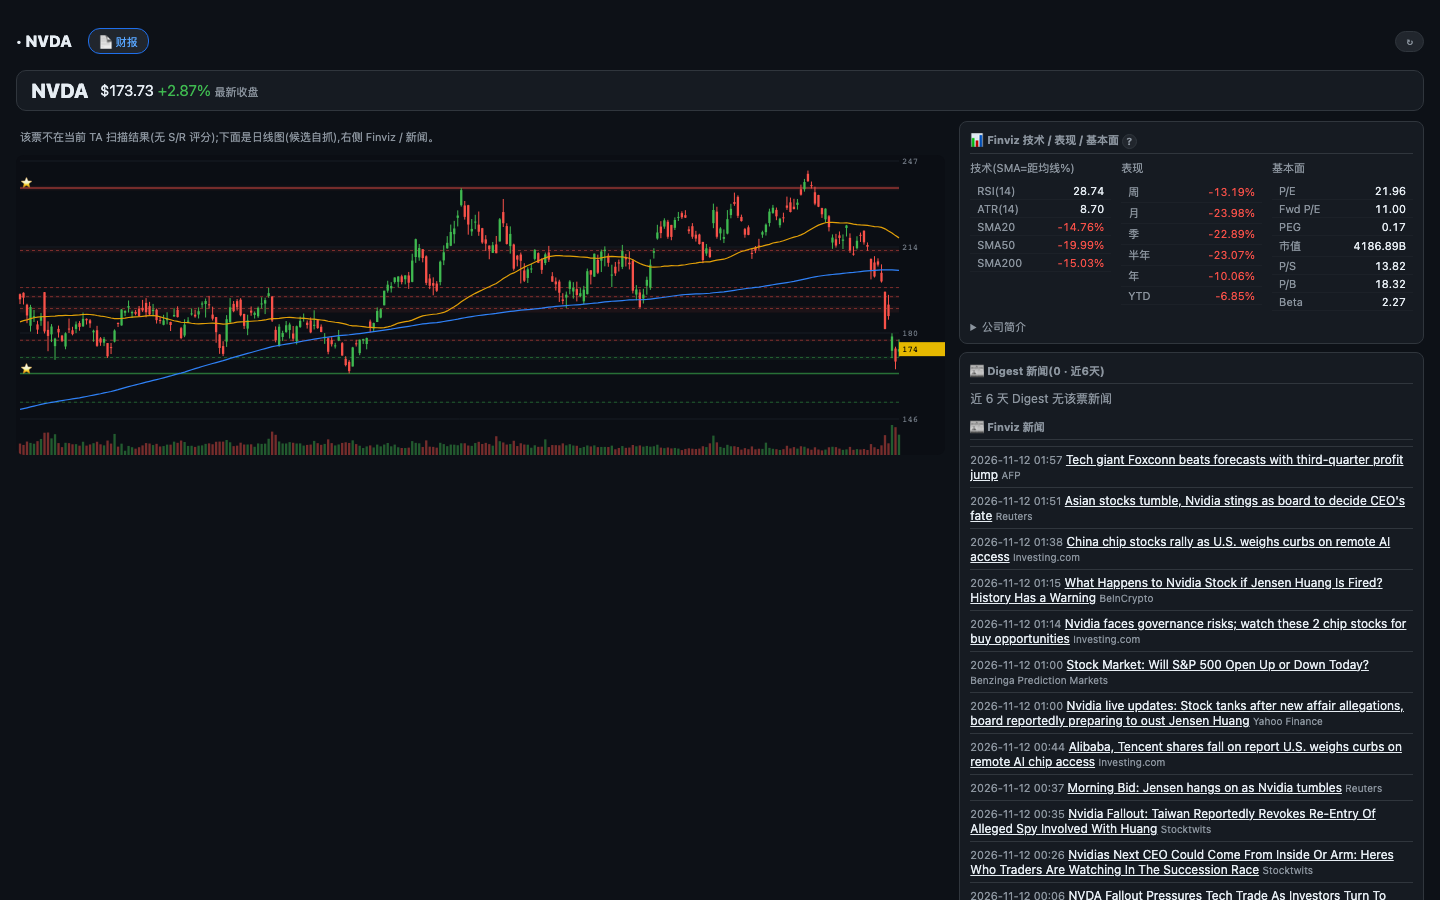
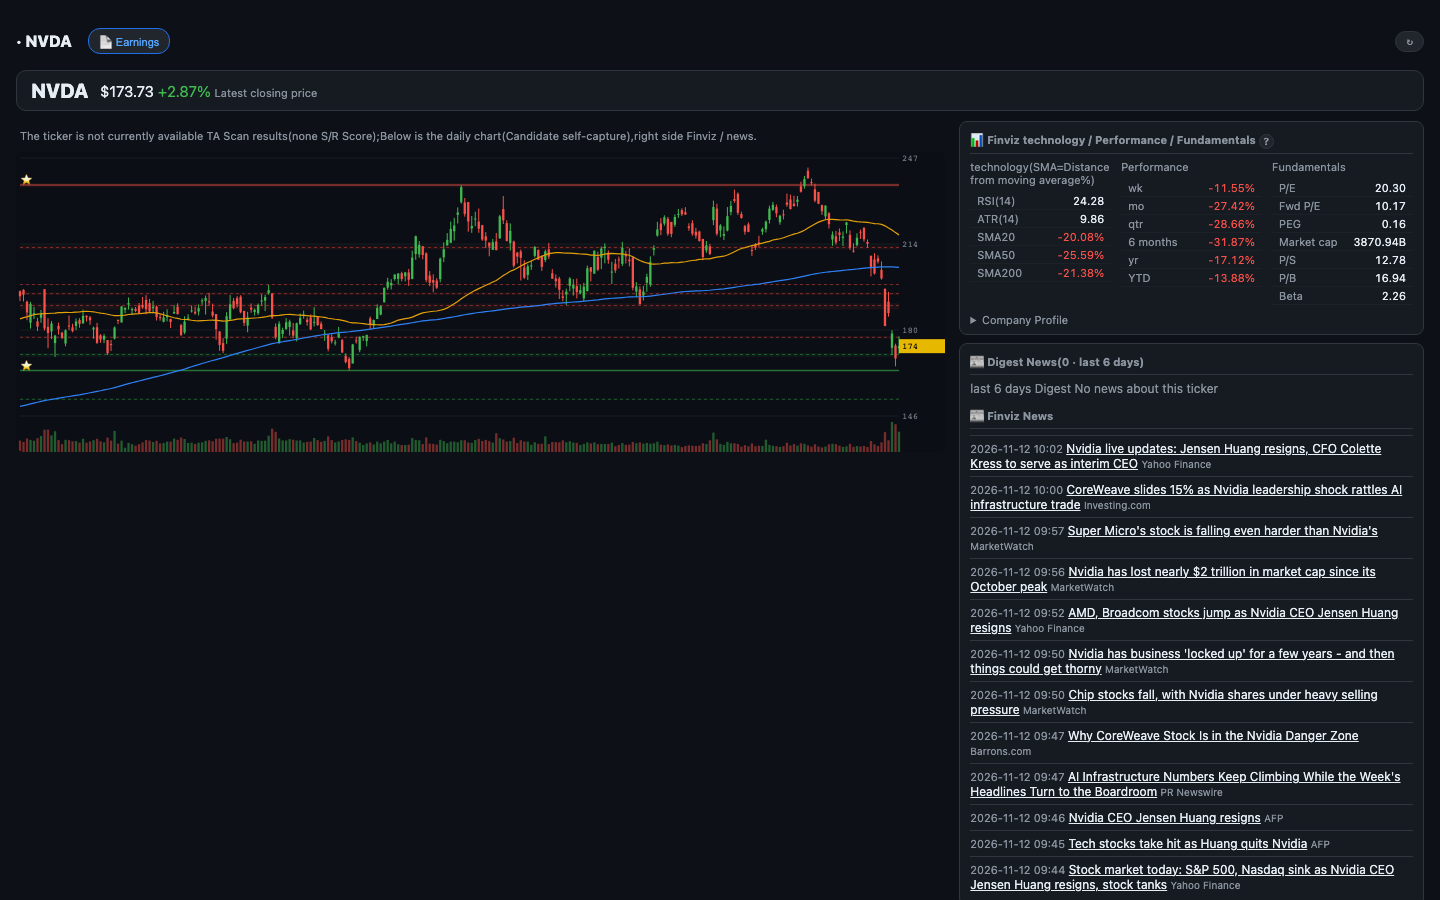
Docs: e-mail alerts, sector rotation, ∞ max profit/loss, TA page language
Brings the READMEs, the feature checklist and the user guide in line with
#11–#14:

- e-mail alerts are documented (settings, test button, repeats and the
  hourly cap, macOS and Linux) and back in the settings table;
- sector rotation is listed as working (80 groups, 575 tickers);
- max profit and loss show ∞ when unlimited;
- the English interface now covers the TA screener and single-ticker
  page; the English single-ticker screenshot is retaken;
- "not wired up yet" loses sector rotation and e-mail alerts, explains
  why the signal backtest job is off, and keeps alerts on Windows.

Refs #7 #8 #9 #10

diff --git a/README.md b/README.md
@@ -65,7 +65,7 @@ This tour covers the highlights. ZEUS does far more than fits on one page: the *
 ### ⚔ Positions — the command center
 - **Every strategy recognized automatically**: verticals, calendars, diagonals, iron condors, butterflies, naked and covered legs, stock. Legs are grouped by the order that opened them, so spreads stay together even when you leg in or roll.
 - **Live P/L that matches your broker**: mark-to-market per leg, today's P/L from the official previous close, total return in $ and %.
-- **Risk at a glance**: max profit, max loss, breakevens, distance to breakeven, probability of profit, days to expiry and a progress bar toward max profit — for every position, in one sortable table.
+- **Risk at a glance**: max profit, max loss (∞ when unlimited), breakevens, distance to breakeven, probability of profit, days to expiry and a progress bar toward max profit — for every position, in one sortable table.
 - **Status lights**: 🔴 deep loss · 🔵 take profit · 🟡 near target · 🟢 hold. One click filters the board.
 - **Detail view per strategy**: a full P/L table across prices and dates, a P/L graph, implied-volatility override, mid/natural pricing, a TradingView chart, and per-leg Greeks (Δ Γ Θ Vega) with a skew-aware, vega-weighted spread IV.
 - **Stress test**: 1σ / 2σ moves, VaR 95 %, CVaR 95 %, worst case, an expiry calendar, scenario sliders and P/L probabilities for the whole book.
@@ -77,7 +77,7 @@ This tour covers the highlights. ZEUS does far more than fits on one page: the *
 - **Credit-spread mistake detector**, **concentration**, **correlation** and **liquidity** checks, position sizing as % of NLV, cash-reserve guard.
 - **Pre-trade checkup** — a four-layer gate you run *before* opening: trend → touch of support/resistance → IV & earnings → macro calendar. It exists to create friction on purpose.
 - **Risk radar**: today's news risk, event density for the next 30 days and a landmine calendar.
-- **Desktop alerts** (macOS) for take-profit hits, support/resistance touches, risk-radar spikes and big movers — they fire even when the browser is closed.
+- **Desktop and e-mail alerts** for take-profit hits, support/resistance touches, risk-radar spikes and big movers. Desktop notifications (macOS) fire even when the browser is closed, and with e-mail set up every alert also arrives in your inbox (macOS and Linux).
 
 ### 🎯 Picker — find the next trade
 - **K-line chart wall**: a wall of daily candles with EMA 50/200, multi-timeframe support/resistance, gold zones and badges; sort by market cap, today's change or TA score, filter by earnings date and by bullish / bearish setup.
@@ -96,6 +96,7 @@ This tour covers the highlights. ZEUS does far more than fits on one page: the *
 
 ### 🧭 Market brief — the big picture, without the drama
 - **AI market judgement**: how bad the news is versus how much price has already priced in, crash probability against historical base rates, three layers of support, and what would prove the view wrong. No bull/bear labels — probabilities and falsifiers.
+- **Sector rotation**: 80 industry groups (575 tickers) ranked by their moves over 5 days to a year, with each group's trend and the share of its stocks above the 50- and 200-day averages.
 - **Options sentiment** by sector: IV percentile, 25-delta skew percentile, put/call volume and open-interest percentiles, each against its own history. It reads the daily option-chain archive (run it from the `/ta/` page), so the percentiles need a few weeks of history.
 
 ### 📋 Digest — four wires, two languages
@@ -123,7 +124,7 @@ This tour covers the highlights. ZEUS does far more than fits on one page: the *
 ### 🌐 Three interface languages: 中文 · 双语 · English
 - **中文** — the original interface: explanations, tips and news translations in Chinese, while trading tables such as Positions, the strategy detail, Paper Trade and the journal keep the usual English labels (Max Profit, Win Rate…).
 - **双语 Bilingual** — the Chinese interface with the English term beside Chinese tabs, buttons, headers and labels, and English inside tooltips. Made for learning the market vocabulary in both languages.
-- **English** — the interface in English, except the single-ticker page and a few labels, which stay in Chinese.
+- **English** — the interface in English, the TA screener and single-ticker page included; a few labels may still show Chinese.
 - Switch in the top bar at any time. News arrives in English with a Chinese translation under every headline (hidden by default in English mode, one click to show). AI answers follow your language.
 
 ### 🤖 Bring your own AI
@@ -144,7 +145,7 @@ Use whichever you have: **Claude Code CLI** (your Claude subscription), an **Ant
 <td width="50%"><img src="docs/screenshots/selector_en.png" alt="AI picker"><br><sub><b>AI picker</b> — trend and dip candidates with strikes and ready-to-paste orders, works without AI too</sub></td></tr>
 <tr><td width="50%"><img src="docs/screenshots/paper_en.png" alt="Paper trades"><br><sub><b>Paper trades</b> — simulated option and stock trades with total, today's and realized P/L</sub></td>
 <td width="50%"><img src="docs/screenshots/paper_builder_en.png" alt="Paper trade builder"><br><sub><b>Paper trade builder</b> — a covered call (100 shares + a short call): exact max profit and loss, P/L by price and date</sub></td></tr>
-<tr><td width="50%"><img src="docs/screenshots/ticker_en.png" alt="Single-ticker page"><br><sub><b>Single-ticker page</b> — chart, Finviz technicals and fundamentals, news (this page is in Chinese)</sub></td>
+<tr><td width="50%"><img src="docs/screenshots/ticker_en.png" alt="Single-ticker page"><br><sub><b>Single-ticker page</b> — chart, Finviz technicals and fundamentals, news</sub></td>
 <td width="50%"><img src="docs/screenshots/digest_en.png" alt="Digest"><br><sub><b>Digest</b> — Finviz, WSJ and MarketWatch, plus Benzinga with a login</sub></td></tr>
 <tr><td width="50%"><img src="docs/screenshots/chart_en.png" alt="Market chart"><br><sub><b>Market chart</b> — SPY / QQQ full-history candles</sub></td>
 <td width="50%"><img src="docs/screenshots/calendar_en.png" alt="Calendar"><br><sub><b>Calendar</b> — earnings and high-impact macro dates</sub></td></tr>
@@ -190,6 +191,7 @@ my.tastytrade.com → **Manage → API Access → OAuth Applications** → creat
 | Finviz Elite token | Finviz news through the official export (otherwise the free page) | optional |
 | AI provider | AI summaries, market brief, AI picker, AI journal review, position review | your own |
 | Barchart login | Barchart screener and signal lists | Barchart account |
+| E-mail (SMTP) | Every alert also by e-mail, with a test button (macOS and Linux) | ✅ |
 
 ---
 
@@ -256,7 +258,7 @@ Runtime data (candles, caches, digests) lives in `~/.zeus-terminal/runtime/`; fo
 
 **Does it place orders?** Not real ones. The 🧪 Paper Trade tab records simulated trades for practice; real trades happen in your broker.
 
-**Does it work on Windows / Linux?** The core does. Desktop notifications are macOS only.
+**Does it work on Windows / Linux?** The core does. Desktop notifications are macOS only; on Linux, set up e-mail alerts instead.
 
 **Where are my settings?** `~/.zeus-terminal/config.json`. Delete the folder to forget everything.
 

diff --git a/docs/FEATURES.md b/docs/FEATURES.md
@@ -38,7 +38,7 @@ ZEUS does far more than the screenshots in the README show. There are 7 pages in
 |---|---|---|---|
 | ✅ | Automatic strategy grouping | Verticals, calendars, diagonals, iron condors, butterflies, naked and covered legs and stock, grouped by the order that opened them, so rolls and legging-in stay together | Free |
 | ✅ | Live P/L | Every leg marked to market; today's P/L from the official previous close; total return in $ and % | Free (live streaming with tastytrade) |
-| ✅ | Sortable board | Name, underlying, total return, today's return, distance to breakeven, max profit, max loss, chance of profit, DTE, progress to max profit | Free |
+| ✅ | Sortable board | Name, underlying, total return, today's return, distance to breakeven, max profit, max loss (∞ when unlimited), chance of profit, DTE, progress to max profit | Free |
 | ✅ | Status lights and filter | 🔴 deep loss · 🔵 take profit · 🟡 near target · 🟢 hold; click a light to filter | Free |
 | ✅ | Account bar | Net liquidating value, buying power used, cash, live tickers | Free (buying power with tastytrade) |
 | ✅ | Compact · Freeze · Refresh | Denser rows; freeze the numbers while you read; refresh on demand | Free |
@@ -81,6 +81,7 @@ ZEUS does far more than the screenshots in the README show. There are 7 pages in
 | ✅ | Concentration, correlation, liquidity | Position size as % of net liquidation, correlation matrix, cash-reserve guard | Free |
 | ✅ | Decision-log reminders | Reminds you to record why you opened or closed a trade | Free |
 | ✅ | Desktop notifications | Everything above as macOS notifications, even with the browser closed | macOS |
+| ✅ | E-mail alerts | Every alert above also by e-mail; the same alert at most once per 30 minutes and at most 20 alerts per hour; test button in Settings | SMTP account (macOS, Linux) |
 
 ## 🩺 Pre-trade checkup and liquidity
 
@@ -100,6 +101,7 @@ ZEUS does far more than the screenshots in the README show. There are 7 pages in
 | ✅ | Sorting and filters | By market cap, today's change or TA score; by earnings date and bullish / bearish setup | Free |
 | ✅ | 🚀 AI picks | Trend-following and dip-buying candidates with strikes, chance of profit and orders you can paste; AI re-ranks them with news and earnings | Free (AI re-rank needs AI) |
 | ✅ | 🧭 Market judgement | How bad the news is versus how much price has absorbed, crash probability against base rates, three layers of support, and what would prove the view wrong | AI |
+| ✅ | 🔄 Sector rotation | 80 industry groups (575 tickers) ranked by their moves over 5 days to a year, with each group's trend and the share above the 50- and 200-day averages | Free |
 | ✅ | 🎲 Options sentiment | IV percentile, 25-delta skew percentile and put/call percentiles by sector, against their own history | Free (needs a few weeks of after-close crawls) |
 | ✅ | 📊 Barchart lists | Intersect or union your saved Barchart screeners and signal pages | Barchart account |
 | ✅ | Ticker detail | Chart (1 week to 2 years), Finviz technicals and fundamentals, news, ⚖ bull/bear narratives, 🏢 company profile written from the latest 10-Q, 📑 jump to SEC filings | Free (narratives and profile need AI) |
@@ -184,7 +186,7 @@ ZEUS does far more than the screenshots in the README show. There are 7 pages in
 | ✅ | News sources | Benzinga cookies, Benzinga data API key, Benzinga login, Finviz Elite token, which free sources to use, headline translation (Google / Bing / AI / off), Google translate key |
 | ✅ | AI | Provider, Claude CLI path, Anthropic or OpenAI-compatible key and URL, fast and smart models, answer language, scheduled AI jobs on / off |
 | ✅ | Other data | Barchart login, Finviz "why is it moving" crawl on / off, SEC EDGAR User-Agent |
-| ✅ | E-mail alerts | From, to, app password, SMTP server and port (stored for e-mail alerts, which are not wired up yet) |
+| ✅ | E-mail alerts | From, to, app password, SMTP server and port; a button sends a test e-mail |
 | ✅ | General | Language, listen address, port, desktop notifications |
 
 Saved secrets are write-only: the page shows *set* or *not set* and never sends a secret back.
@@ -202,7 +204,7 @@ Saved secrets are write-only: the page shows *set* or *not set* and never sends 
 | ✅ | Unusual options activity archive | Every 15 minutes in market hours (Benzinga) |
 | ✅ | Earnings and macro calendar | Daily |
 | ✅ | Journal sync | Hourly (tastytrade) |
-| ✅ | Alerts: take-profit, missing GTC, credit-spread mistakes, support / resistance, risk radar, decision-log reminders, weekly review | Continuously |
+| ✅ | Alerts: take-profit, missing GTC, credit-spread mistakes, support / resistance, risk radar, decision-log reminders, weekly review (also by e-mail when set up) | Continuously |
 | ✅ | Bilingual news notification | Daily |
 
 ## 🌍 Data sources
@@ -236,11 +238,9 @@ Saved secrets are write-only: the page shows *set* or *not set* and never sends 
 
 These parts exist in the code but are hidden or incomplete in the public version. They are good places to start a pull request.
 
-- **Sector rotation** (Market judgement → 🔄 rotation): needs an industry universe file that is not shipped yet.
 - **Unusual options activity** sub-tab in Events: the background fetch exists; the tab is hidden.
 - **More picker data modes**: ETF trends, beta and correlation, movers lists and option volume are hidden in the picker toolbar.
-- **Signal backtest**: an automatic paper backtest of screener signals (stop-loss / take-profit modes); it has no entry point in the interface.
+- **Signal backtest**: an automatic paper backtest of screener signals (stop-loss / take-profit modes). It needs SSP1 screener signals and a page, so its daily job is off.
 - **History news search panel**: the search API works; the panel has no entry point.
-- **E-mail alerts**: the settings exist, but nothing sends e-mail yet; alerts go to the desktop and the browser.
-- **Desktop notifications on Windows and Linux**: only macOS today.
+- **Alerts on Windows**: desktop notifications are macOS only and e-mail alerts run on macOS and Linux; Windows has neither yet.
 - **More brokers** for live positions: today only tastytrade connects live; any other broker works through CSV.

diff --git a/docs/USER_GUIDE.md b/docs/USER_GUIDE.md
@@ -64,6 +64,7 @@ Pick a provider: **Claude Code CLI** (uses your Claude subscription), an **Anthr
 
 - **Desktop notifications (macOS):** Settings → General. They fire even when the browser is closed. Allow notifications for your terminal app in macOS System Settings if they don't show.
 - **Browser notifications:** Positions → 🔔 → **Enable Notifications**.
+- **E-mail:** Settings → E-mail alerts. Fill in the sender, the recipients, an app password (Gmail: Google Account → Security → App passwords) and the SMTP server and port (587 or 465). Press **Save**, then **Send a test e-mail**. From then on every desktop alert also arrives by mail; on Linux this is how alerts reach you. Not available on Windows yet.
 - **🔔 in the top bar** mutes everything for a while.
 
 ### Language
@@ -132,6 +133,7 @@ From the TA screener, **⚡** (or the **B** key on a ticker page) opens the reco
 | No AI buttons | Set an AI provider in ⚙ Settings → AI, then reload the page. |
 | Benzinga news stopped | The Benzinga cookies expired. Paste fresh cookies in Settings → News sources. |
 | No desktop notifications | macOS only. Turn them on in Settings → General, and allow notifications for your terminal app in macOS System Settings. |
+| The test e-mail fails | Use an app password, not your normal one, and check the server and port (587 with STARTTLS or 465 with SSL). The message next to the button shows what the mail server answered. |
 | The page looks out of date after an update | Reload with Cmd+Shift+R (Ctrl+Shift+R on Windows); the installed app caches pages. |
 | Paper Trade says "No market data yet" | The terminal is still loading after start; wait a few seconds. If it stays, look at the terminal window: with tastytrade, the connection may have failed (press Test connection in Settings). |
 
